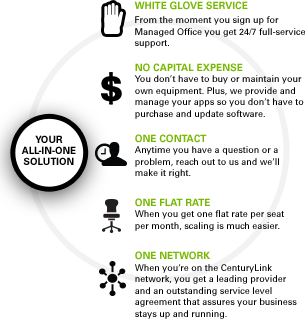
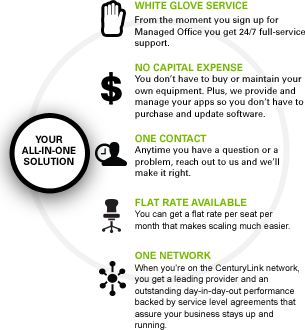
fix bugs

diff --git a/micrositev2/css/style.css b/micrositev2/css/style.css
@@ -36,6 +36,16 @@ h3 {
 	font-weight: 900;
 }
 
+#section-middle-voice {
+	position: relative;
+}
+
+.additional-asterisk {
+	position: absolute;
+	bottom: 20px;
+	color: #8A8A8A;
+}
+
 a,
 textarea:hover, 
 input:hover, 
@@ -79,8 +89,16 @@ input:focus {
 }
 
 @media (max-width:450px){
+	.overlay-timer {
+		min-height: 720px;
+	}
+	
+	.overlay-chair {
+		min-height: 720px;
+	}
+	
 	.bgwelcome {
-		min-height: 930px;
+		min-height: 970px;
 	}
 	
 	.slide {
@@ -112,6 +130,14 @@ textarea.form-control {
 
 .widtd70 {
 	width: 70px;
+}
+
+.width300 {
+	width: 300px;
+}
+
+.paddingtop10 {
+	padding-top: 10px;
 }
 
 .noborderframe {
@@ -260,12 +286,12 @@ a#logo-sticky {
 	padding-bottom: 8px;
 }
 
-.navbar-default .navbar-mainmenu > .active > a,
+/*.navbar-default .navbar-mainmenu > .active > a,
 .navbar-default .navbar-mainmenu a:hover {
 	background-image: none;
 	background-color: #000;
 	color: #FFF;
-}
+}*/
 
 ul.navbar-mainmenu li:hover{
 	background-image: none;
@@ -1031,7 +1057,7 @@ p.lead {
 	}
 	
 	.bgdata {
-		min-height: 872px;
+		min-height: 1040px;
 	}
 	
 	.video {
@@ -1365,7 +1391,7 @@ form.cmxform .gray * {
   width: 29px; /* Width of image */
   height: 60px; /* Height of image */
   display:none;
-  background: url(../images/totop.png) no-repeat;
+  background: url(../images/totopgreen.png) no-repeat;
 }
 
 

diff --git a/micrositev2/index.php b/micrositev2/index.php
@@ -187,7 +187,7 @@ page_header('CenturyLink Managed Office','index');
 									<td class="text-left"><span class="title-col">One Network</span>
 										<p class="desc-col">When you're on the CenturyLink network,
 											you get a leading provider and an outstanding day-in-day-out
-											performance backed by service level agreement that assure
+											performance backed by service level agreements that assure
 											your business stays up and running.</p>
 									</td>
 								</tr>
@@ -281,9 +281,7 @@ page_header('CenturyLink Managed Office','index');
 							<div class="content-it-mobusiness">
 								<p>You're likely burdened with day-to-day communication and IT
 									support tasks.</p>
-								<p>Moving to Managed Office, we remove the headaches of
-									supporting our solution, including full separation from other
-									IT elements that drive your business every day.</p>
+								<p>Moving to Managed Office, we remove the everyday headaches of supporting your communication solution, including full separation from other IT elements that drive your business.</p>
 							</div>
 						</div>
 					</div>
@@ -322,7 +320,7 @@ page_header('CenturyLink Managed Office','index');
 							from one trusted provider. With the Managed Office cost model,
 							you can move from a capital expense (CapEx), to an operational
 							expense (OpEx). You no longer have to buy equipment; you just pay
-							for usage.</p>
+							for usage.*</p>
 						<p class="fs14b">
 							Need questions answered?<br /> <span class="font-gray-mormal">Schedule
 								a meeting to learn more.</span>
@@ -341,6 +339,11 @@ page_header('CenturyLink Managed Office','index');
 				<a href="#what-in-it-for-you" class="btscroll"> <i
 					class="sprite down-arrow"></i> <span>WHAT'S IN IT FOR YOU?</span> </a>
 			</div>
+            <div class="additional-asterisk">
+                <p class="width300">
+                    *Additional features available at an additional change or ala cate options available for features and services not included in the seat price.
+                </p>
+            </div>
 		</div>
 	</div>
 </div>
@@ -359,21 +362,29 @@ page_header('CenturyLink Managed Office','index');
 							
 						</div>
 						<div class="space20 visible-xs"></div>
-						<p class="fs14b font-gray-mormal">
-							&bull; All your phones and hardware are installed and managed for
-							you. <br /> &bull; There are no upfront investments or ongoing
-							operational expenses.<br /> &bull; CenturyLink's Cloud makes your
-							business's information secure and accessible, virtually anywhere.
-							<br /> &bull; You'll always have the latest and greatest, because
-							we're continually updating your communication, applications, and
-							network technology. <br /> &bull; No need for you to contact a
-							third-party supplier to upgrade the software or manage the
-							technology.<br /> &bull; Managed Office is a totally scalable
-							solution.<br /> &bull; Our fully managed solution can improve
-							your total cost of ownership.<br /> &bull; You get one invoice
-							from one trusted partner.<br /> &bull; A dedicated technical
-							operations center is available 24/7 and proactively monitors your
-							network.
+						<p>
+                        	<ul class="fs14b font-gray-mormal ul-ethernet-connection">
+                            	<li> All your phones and hardware are installed and managed foryou.</li>
+                                <li>There are no upfront investments or ongoing
+                                operational expenses.</li>
+                                    <li>CenturyLink's Cloud makes your
+                                business's information secure and accessible, virtually anywhere.</li>
+                                    <li>You'll always have the latest and greatest, because
+                                we're continually updating your communication, applications, and
+                                network technology.</li> 
+                                    <li>No need for you to contact a
+                                third-party supplier to upgrade the software or manage the
+                                technology.</li>
+                                    <li>Managed Office is a totally scalable
+                                solution.</li> 
+                                    <li>Our fully managed solution can improve
+                                your total cost of ownership.</li>	
+                                    <li>You get one invoice
+                                from one trusted partner.</li> 
+                                    <li>A dedicated technical
+                                operations center is available 24/7 and proactively monitors your
+                                network.</li>
+                            </ul>
 						</p>
 						<div class="space20 visible-xs"></div>
 					</div>
@@ -437,7 +448,7 @@ page_header('CenturyLink Managed Office','index');
 				<div class="space38 hidden-xs"></div>
 				<h2>
 					<span class="font-green-mormal">Managed DATA</span><br />The world
-					of business only works if you're connected to it.
+					of business only works if you're connected <br />to it.
 				</h2>
 				<div class="visible-xs">
 					<img src="<?php echo ROOT_URL; ?>/images/mobi/icon_data.png" alt=""

diff --git a/micrositev2/includes/header.php b/micrositev2/includes/header.php
@@ -1,7 +1,6 @@
 <?php global $uri; ?>
 <header id="header">
-<div
-	class="bgwelcome <?php if(in_array( $uri,array('data','apps','voice') )) echo 'bgdata'; ?>">
+<div class="bgwelcome <?php if(in_array( $uri,array('data','apps','voice') )) echo 'bgdata'; ?>">
 	<div class="container">
 		<div class="space38 hidden-xs"></div>
 		<div class="space10 visible-xs"></div>
@@ -27,10 +26,10 @@
 				<div class="collapse navbar-collapse" id="mobi-nav-collapse">
 					<ul class="nav navbar-nav navbar-mainmenu">
 						<li
-						<?php if($uri == '' || $uri == 'index'){ echo ' class="active"'; }?>><a
+						<?php /*if($uri == '' || $uri == 'index'){ echo ' class="active"'; }*/?>><a
 							href="<?php echo ROOT_URL; ?>/">HOME</a></li>
 						<li
-							class="dropdown<?php if(in_array( $uri,array('data','apps','voice') )){ echo ' active'; }?>"><a
+							class="dropdown<?php /*if(in_array( $uri,array('data','apps','voice') )){ echo ' active'; }*/?>"><a
 							href="#" class="dropdown-toggle" data-toggle="dropdown">PRODUCT
 								COMPONENTS <b class="caret"></b> </a>
 							<ul class="dropdown-menu">

diff --git a/micrositev2/includes/contactform.php b/micrositev2/includes/contactform.php
@@ -4,14 +4,13 @@
 		<div class="row">
 			<div class="col-sm-6 col-md-6">
 				<h2>Can we set up a meeting?</h2>
-				<p class="fs18">Just fill in a form, we'll give you a call back and
-					set up a time to meet and talk about Managed Office.</p>
+				<p class="fs18">Just fill in this form, we'll give you a call back and set up a time to meet and talk about how Managed Office can help your business.</p>
 				<div class="space20 hidden-xs"></div>
 				<div class="sprite ico-calendar hidden-xs"></div>
 			</div>
 			<div class="col-sm-6 col-md-6">
 				<form role="form" action="#" method="post" id="formcontact">
-					<span class="required">* All fields required</span>
+					<span class="required">All fields required</span>
 					<div class="form-group">
 						<label for="txtfirstname">First Name</label> <input type="text"
 							id="txtfirstname" class="form-control" name="txtfirstname"
@@ -62,6 +61,7 @@
 					</div>
 					<button type="submit" class="btnsubmit">SUBMIT</button>
 				</form>
+                <div class="space20"></div>
 			</div>
 		</div>
 	</div>

diff --git a/micrositev2/managed-voice/voice.php b/micrositev2/managed-voice/voice.php
@@ -94,11 +94,11 @@ page_header("CenturyLink Managed Office | Managed Voice", "voice");
 		<div class="visible-xs">
 			<div class="mobi-line-gradient"></div>
 		</div>
-		<div>
+		<div id="section-middle-voice">
 			<div class="row paddingbottom60">
 				<div class="col-sm-6 col-md-6">
 					<div class="space38 hidden-xs"></div>
-					<h1>What's available with each seat you purchase?</h1>
+					<h1>What's available with each seat you purchase?*</h1>
 					<p class="fs14b">With CenturyLink Managed Office, each seat can
 						include:</p>
 					<p>
@@ -128,6 +128,11 @@ page_header("CenturyLink Managed Office | Managed Voice", "voice");
 					</div>
 				</div>
 			</div>
+            <div class="additional-asterisk">
+                <p class="paddingtop10">
+                    *Some features are an additional fee
+                </p>
+            </div>
 		</div>
 		<div class="hidden-xs">
 			<div class="line-gradient"></div>

diff --git a/micrositev2/includes/header_home.php b/micrositev2/includes/header_home.php
@@ -12,7 +12,7 @@
 			<p class="fs14b font-gray-mormal">Managed Office provides your
 				business with fundamental IT and communication infrastructure, plus
 				a dedicated team to manage it, with a flat rate per seat per month
-				available.</p>
+				available.*</p>
 			<p class="fs14b">You focus on your business. We handle the technology
 				that runs it.</p>
 		</div>
@@ -102,6 +102,11 @@
             
 		</div>
 	</div>
+</div>
+<div class="additional-asterisk">
+	<p>
+    	*Additional charges may apply
+    </p>
 </div>
 <div class="nextpage visible-md visible-lg">
 	<a href="#learn-how-with-managed-office" class="btscroll"> <i

diff --git a/micrositev2/includes/footer.php b/micrositev2/includes/footer.php
@@ -254,11 +254,12 @@ jQuery(document).ready(function($) {
 
 	//BACKTOTOP
 	$.scrollUp({
-		  scrollImg: true
+		  scrollImg: true,
+		  scrollDistance: 360
 	});
 	$('a#scrollUp').click(function(){
 		setTimeout(function(){
-			$('#sticky-nav li.current').removeClass('current');
+			$('#div-navsticky li.active').removeClass('active');
 		},300);
 	});
 });
